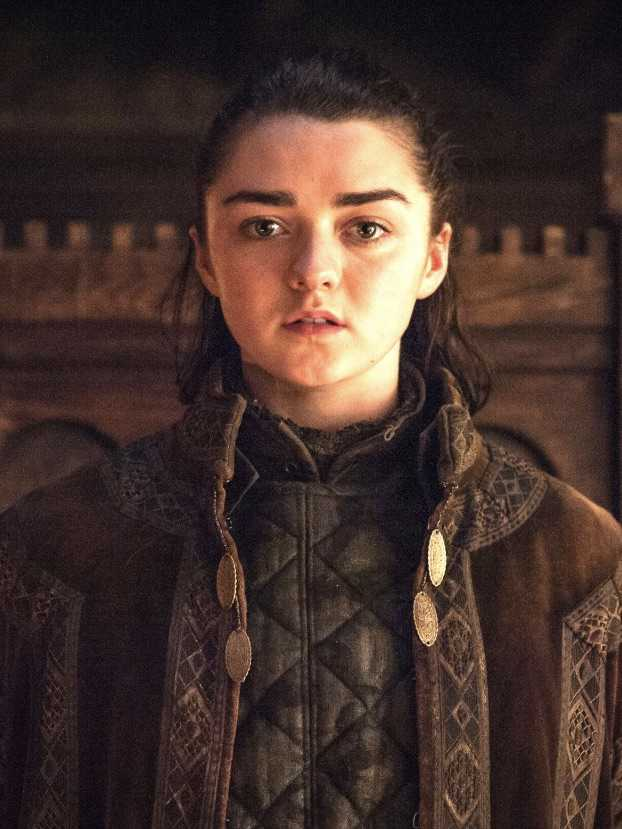
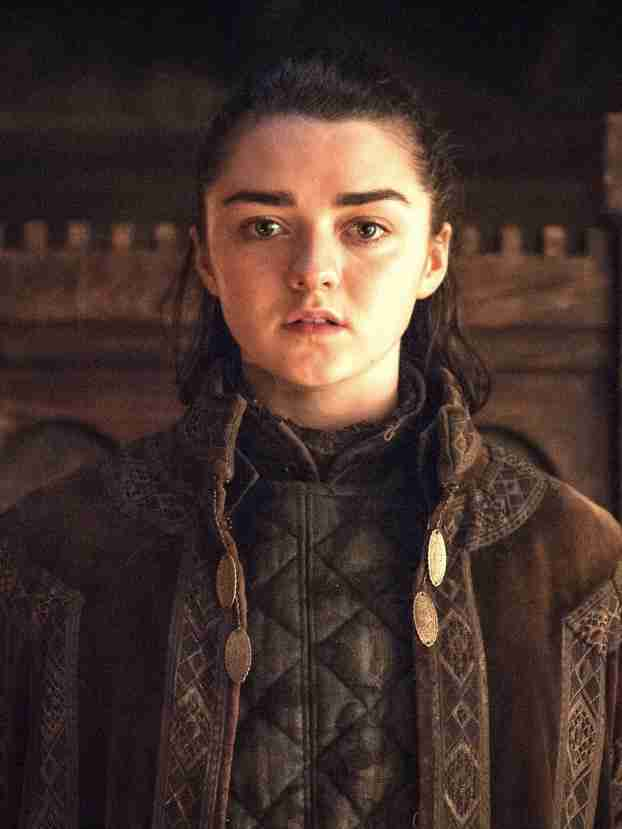
adjust images

diff --git a/Gruntfile.js b/Gruntfile.js
@@ -10,7 +10,7 @@ module.exports = function(grunt) {
           sizes: [{
             width: 800,
             suffix: '_sm',
-            quality: 50
+            quality: 15
           }]
           // ,{
           //   width: 1600,
